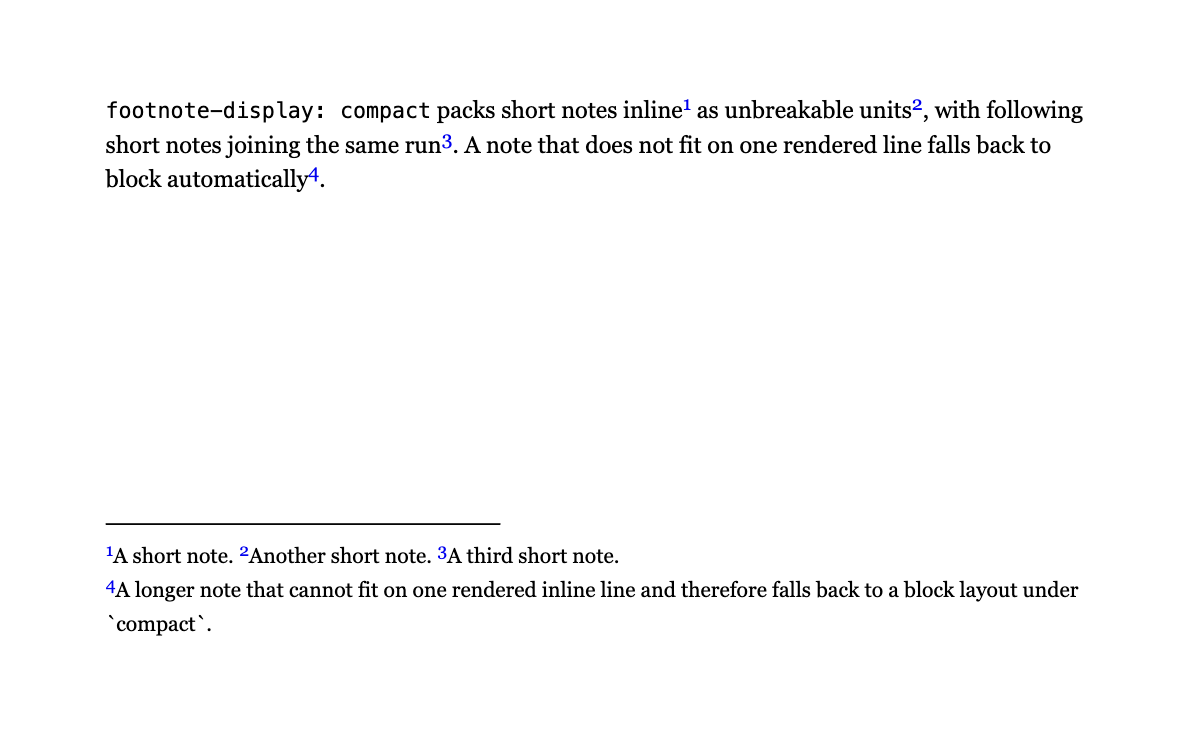
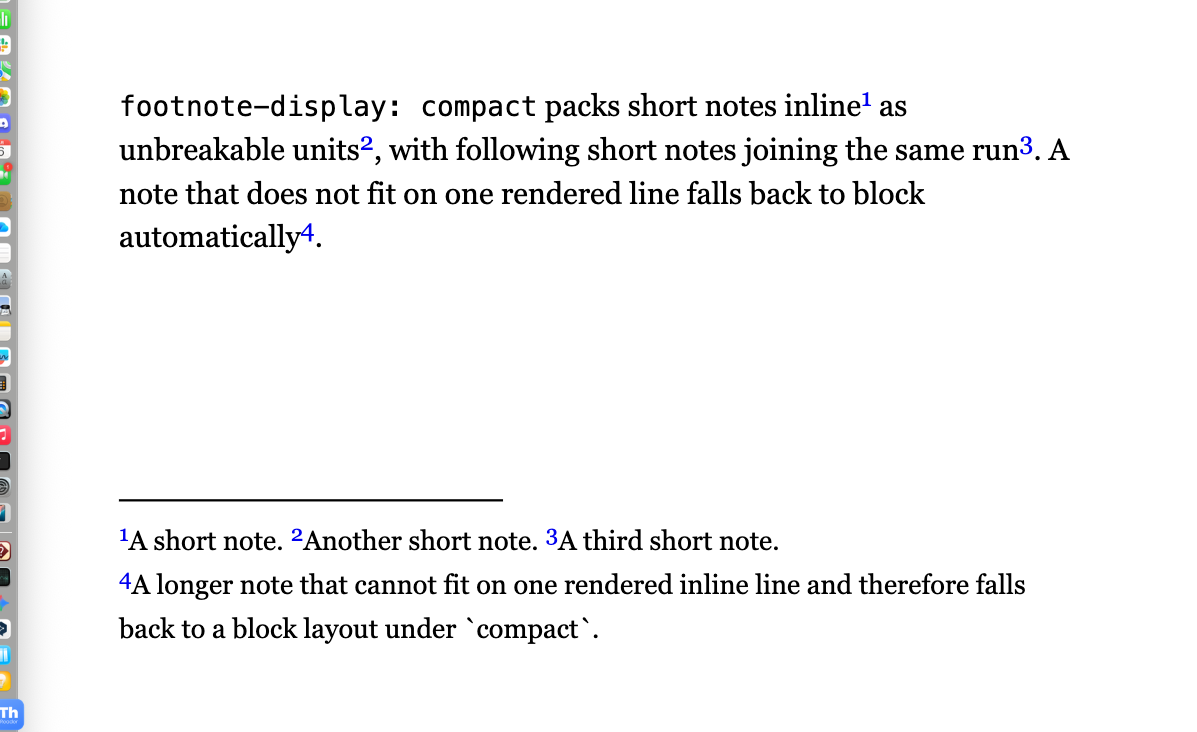
fix(screenshots): shrink 05 / 06 / 07 page size to match the rest
When troubleshooting `footnote-display: inline` against the
older bundled Viewer, fixtures 05 / 06 / 07 were enlarged to
180mm × 110mm in case the smaller page wasn't giving the
inline layout enough horizontal room. After the
`@vivliostyle/viewer` override moved to 2.42.0 the feature
works fine at the original 140mm × 90mm, but the larger source
PNGs ended up scaled down more than 01–04 in the article — so
the §8 / §9 figures looked smaller than the surrounding ones.

Restore the 140mm × 90mm page size on all three fixtures (en
and ja) and recapture the screenshots so every figure in the
guide reads at the same body-text size.

Refs #15

diff --git a/_screenshots/footnotes/ja/06-footnote-display-compact.html b/_screenshots/footnotes/ja/06-footnote-display-compact.html
@@ -4,11 +4,11 @@
 <meta charset="utf-8">
 <title>例 6: footnote-display: compact</title>
 <style>
-  /* ページサイズは 05 と同じ。compact は 1 行に収まる短い注は inline、
-     収まらない長い注は block にフォールバックする挙動 */
+  /* compact は 1 行に収まる短い注は inline、収まらない長い注は block に
+     フォールバックする挙動 */
   @page {
-    size: 180mm 110mm;
-    margin: 14mm 16mm;
+    size: 140mm 90mm;
+    margin: 12mm 14mm;
   }
   body {
     font-family: "Noto Serif JP", "Hiragino Mincho ProN", "Yu Mincho", serif;

diff --git a/_screenshots/footnotes/en/06-footnote-display-compact.html b/_screenshots/footnotes/en/06-footnote-display-compact.html
@@ -4,11 +4,11 @@
 <meta charset="utf-8">
 <title>Example 6: footnote-display: compact</title>
 <style>
-  /* Same page size as 05. `compact` keeps short notes inline and
-     falls back to block for notes that don't fit on a single line. */
+  /* `compact` keeps short notes inline and falls back to block for
+     notes that don't fit on a single line. */
   @page {
-    size: 180mm 110mm;
-    margin: 14mm 16mm;
+    size: 140mm 90mm;
+    margin: 12mm 14mm;
   }
   body {
     font-family: "Source Serif Pro", "Georgia", serif;

diff --git a/_screenshots/footnotes/ja/05-footnote-display-inline.html b/_screenshots/footnotes/ja/05-footnote-display-inline.html
@@ -4,11 +4,9 @@
 <meta charset="utf-8">
 <title>例 5: footnote-display: inline</title>
 <style>
-  /* footnote-display: inline の挙動はページサイズや余白に左右されるため、
-     脚注エリアに 3 つの注を 1〜2 行に収められる横幅を確保する */
   @page {
-    size: 180mm 110mm;
-    margin: 14mm 16mm;
+    size: 140mm 90mm;
+    margin: 12mm 14mm;
   }
   body {
     font-family: "Noto Serif JP", "Hiragino Mincho ProN", "Yu Mincho", serif;

diff --git a/_screenshots/footnotes/en/05-footnote-display-inline.html b/_screenshots/footnotes/en/05-footnote-display-inline.html
@@ -4,12 +4,9 @@
 <meta charset="utf-8">
 <title>Example 5: footnote-display: inline</title>
 <style>
-  /* footnote-display: inline behaviour depends on the available width
-     in the footnote area; size the page wide enough to fit three
-     short notes on one or two lines. */
   @page {
-    size: 180mm 110mm;
-    margin: 14mm 16mm;
+    size: 140mm 90mm;
+    margin: 12mm 14mm;
   }
   body {
     font-family: "Source Serif Pro", "Georgia", serif;

diff --git a/_screenshots/footnotes/ja/07-footnote-marker-outside.html b/_screenshots/footnotes/ja/07-footnote-marker-outside.html
@@ -10,8 +10,8 @@
      インデントになるため、複数行注の継続行が本文左端に揃って
      読みやすくなる */
   @page {
-    size: 180mm 110mm;
-    margin: 14mm 16mm;
+    size: 140mm 90mm;
+    margin: 12mm 14mm;
   }
   body {
     font-family: "Noto Serif JP", "Hiragino Mincho ProN", "Yu Mincho", serif;

diff --git a/_screenshots/footnotes/en/07-footnote-marker-outside.html b/_screenshots/footnotes/en/07-footnote-marker-outside.html
@@ -9,8 +9,8 @@
      `outside`, the marker hangs to the left of the body, giving
      a clean hanging-indent presentation for multi-line notes. */
   @page {
-    size: 180mm 110mm;
-    margin: 14mm 16mm;
+    size: 140mm 90mm;
+    margin: 12mm 14mm;
   }
   body {
     font-family: "Source Serif Pro", "Georgia", serif;
